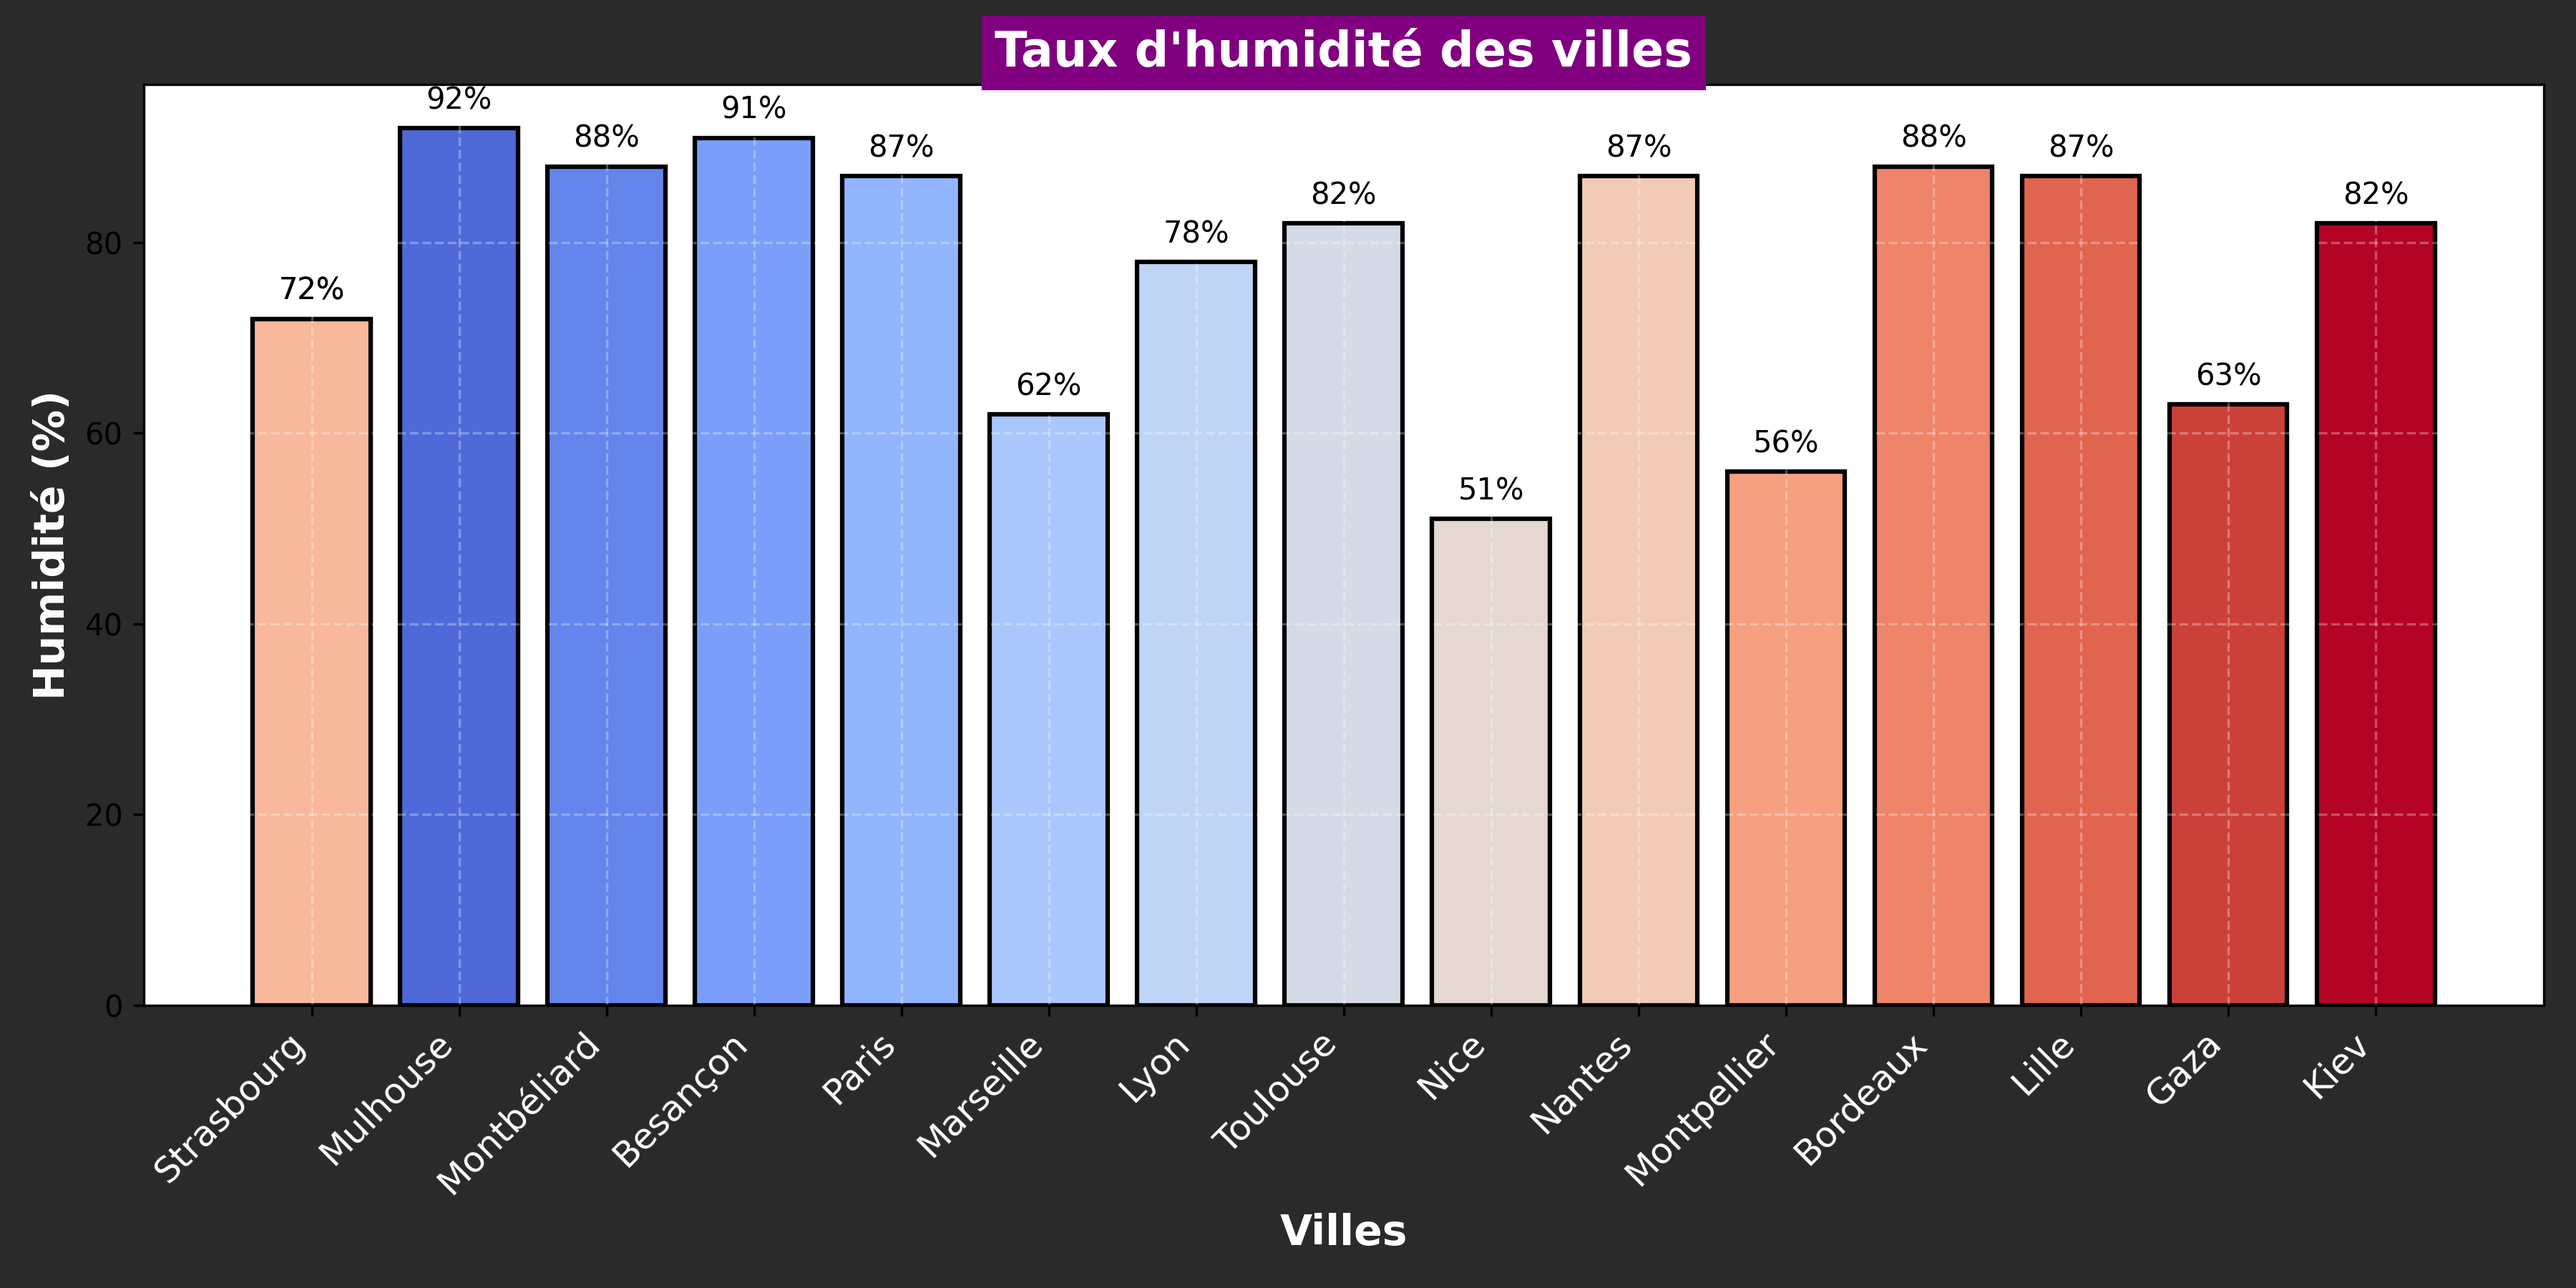
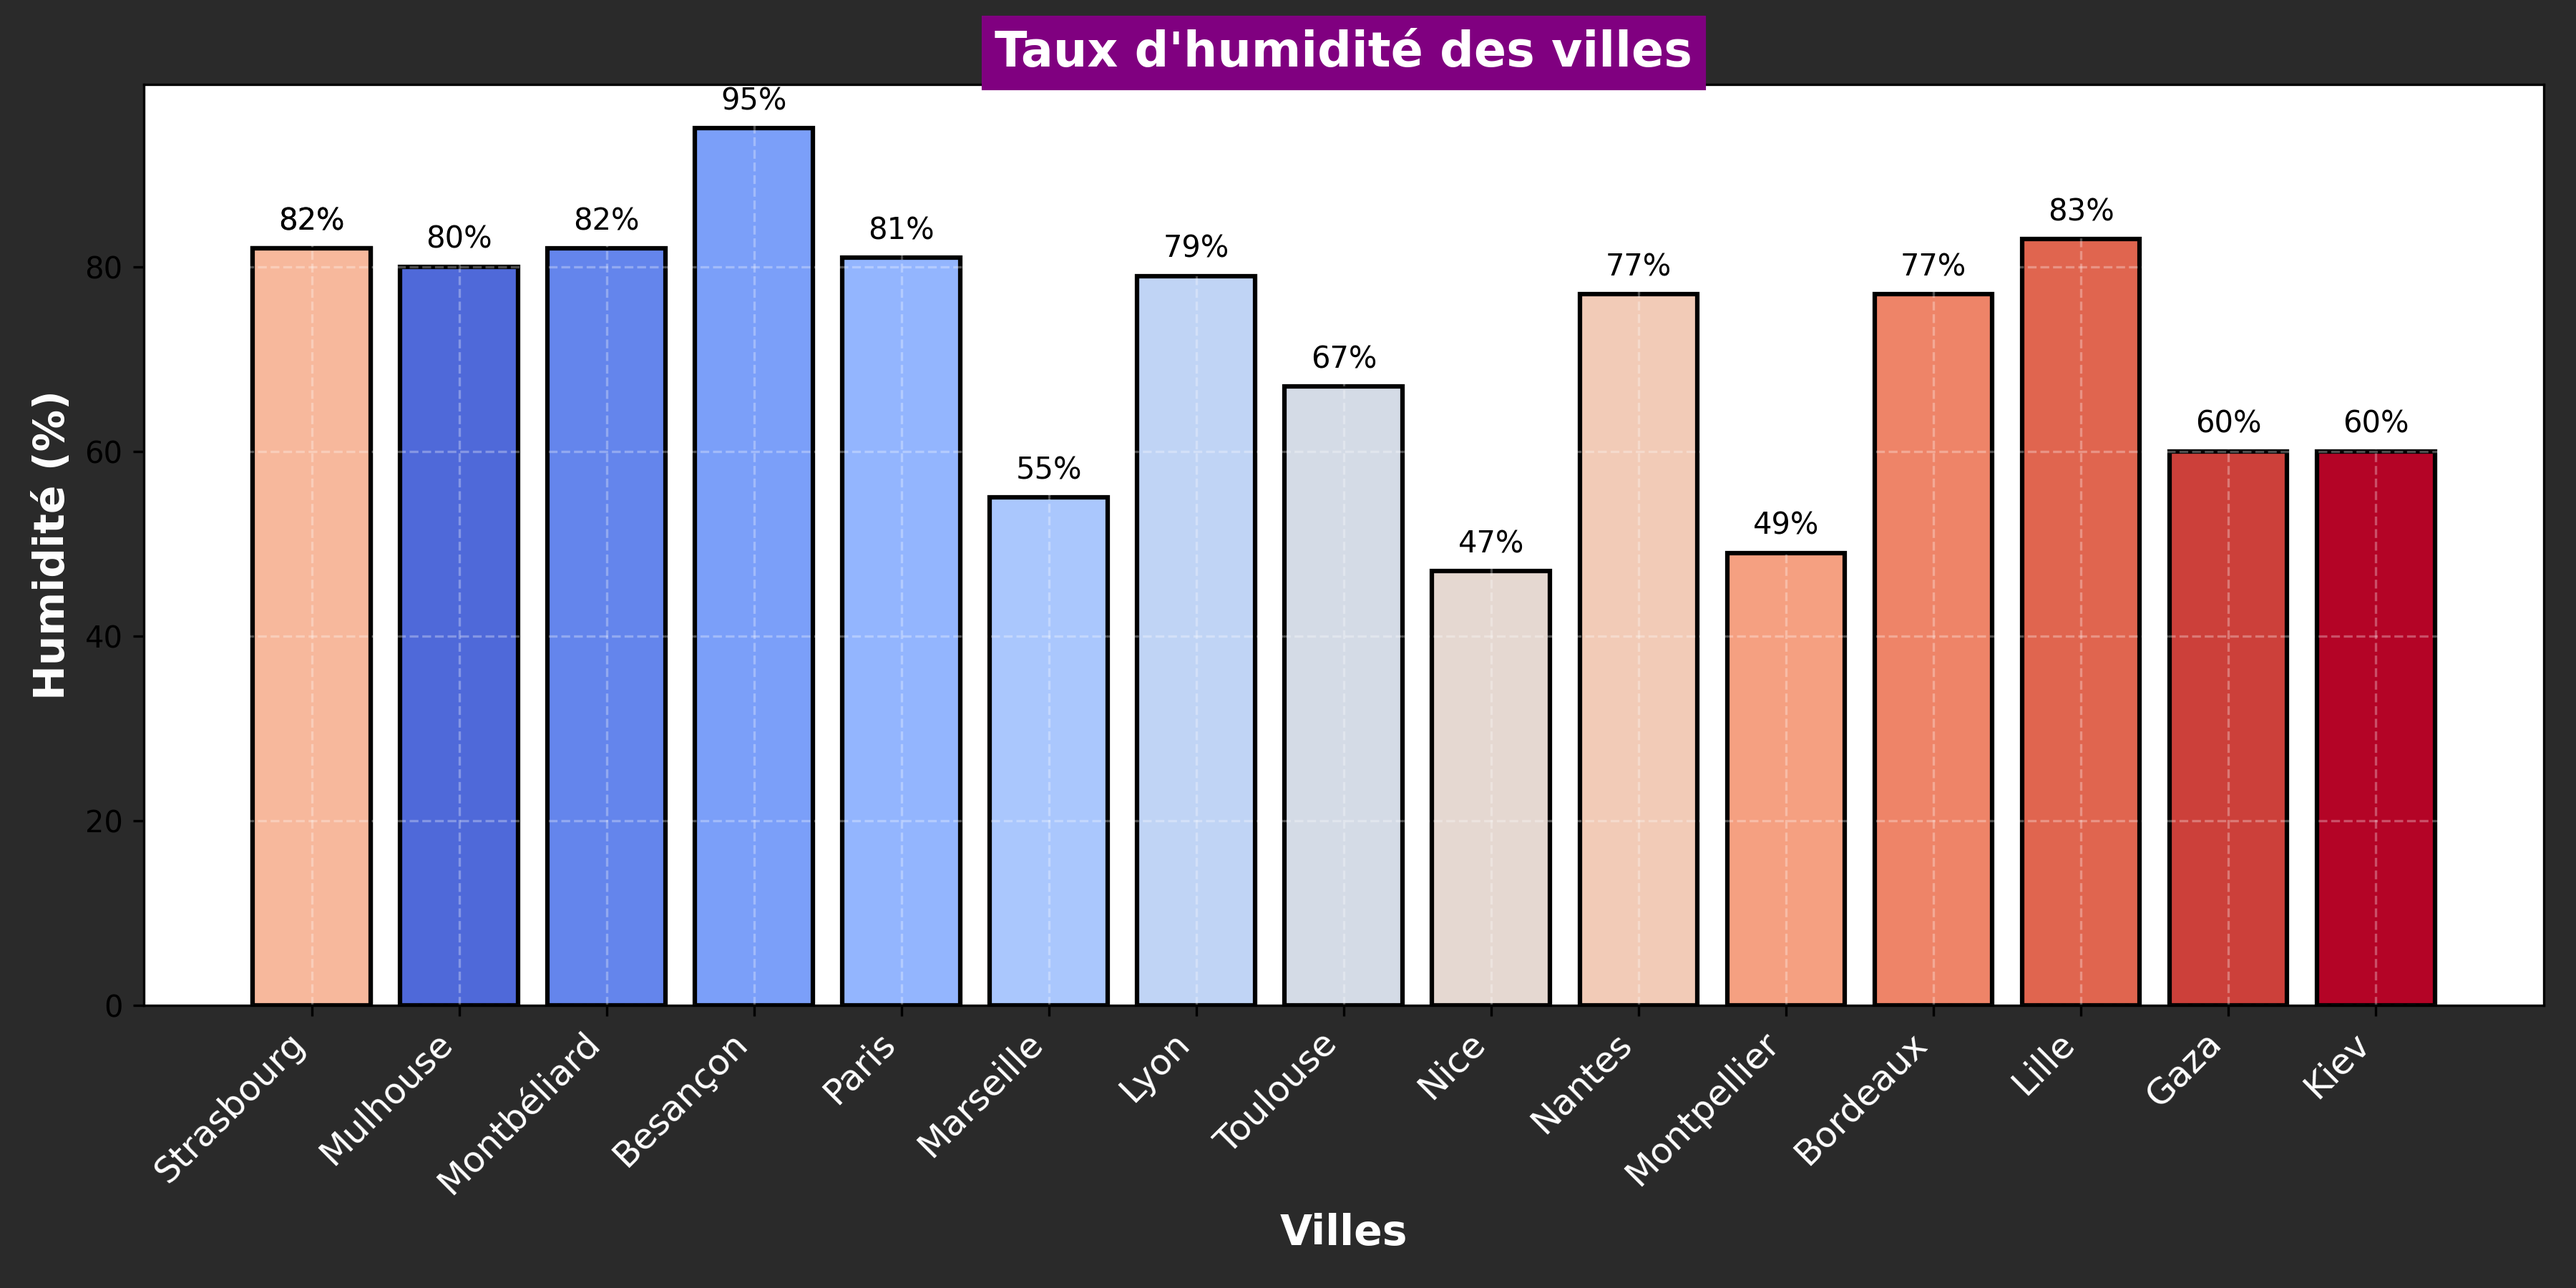
Mise à jour de la météo et ajout du graphique d'humidité

diff --git a/README.md b/README.md
@@ -24,103 +24,103 @@ Ce repo contient plusieurs workflows GitHub Actions :
 ## Météo actuelle :
 ## Météo des grandes villes + Gaza et Kiev 🌍
 
-🕒 Mise à jour : 08/07/2025 08:19:18
+🕒 Mise à jour : 09/07/2025 08:19:12
 
-### 🌍 Strasbourg 🌧
-**Conditions :** légère pluie
-**Température :** 14.97°C
-**Humidité :** 72%
-**Vent :** 2.06 m/s
+### 🌍 Strasbourg ☀
+**Conditions :** ciel dégagé
+**Température :** 14.98°C
+**Humidité :** 82%
+**Vent :** 1.54 m/s
 
-### 🌍 Mulhouse 🌧
-**Conditions :** légère pluie
-**Température :** 13.1°C
-**Humidité :** 92%
-**Vent :** 4.12 m/s
+### 🌍 Mulhouse ☀
+**Conditions :** ciel dégagé
+**Température :** 13.19°C
+**Humidité :** 80%
+**Vent :** 1.03 m/s
 
-### 🌍 Montbéliard 🌧
-**Conditions :** légère pluie
-**Température :** 12.77°C
-**Humidité :** 88%
-**Vent :** 3.89 m/s
+### 🌍 Montbéliard 🌥
+**Conditions :** peu nuageux
+**Température :** 13.88°C
+**Humidité :** 82%
+**Vent :** 0.93 m/s
 
-### 🌍 Besançon 🌧
-**Conditions :** légère pluie
-**Température :** 11.29°C
-**Humidité :** 91%
-**Vent :** 1.96 m/s
+### 🌍 Besançon 🌥
+**Conditions :** peu nuageux
+**Température :** 10.18°C
+**Humidité :** 95%
+**Vent :** 0.72 m/s
 
-### 🌍 Paris 🌥
-**Conditions :** nuageux
-**Température :** 14.73°C
-**Humidité :** 87%
-**Vent :** 5.66 m/s
+### 🌍 Paris ☀
+**Conditions :** ciel dégagé
+**Température :** 14.32°C
+**Humidité :** 81%
+**Vent :** 1.03 m/s
 
 ### 🌍 Marseille ☀
 **Conditions :** ciel dégagé
-**Température :** 17.44°C
-**Humidité :** 62%
-**Vent :** 6.26 m/s
+**Température :** 15.1°C
+**Humidité :** 55%
+**Vent :** 3.29 m/s
 
-### 🌍 Lyon 🌥
-**Conditions :** couvert
-**Température :** 13.56°C
-**Humidité :** 78%
-**Vent :** 1.58 m/s
-
-### 🌍 Toulouse ☀
+### 🌍 Lyon ☀
 **Conditions :** ciel dégagé
+**Température :** 11.6°C
+**Humidité :** 79%
+**Vent :** 1.14 m/s
+
+### 🌍 Toulouse 🌥
+**Conditions :** peu nuageux
 **Température :** 15.99°C
-**Humidité :** 82%
-**Vent :** 5.14 m/s
+**Humidité :** 67%
+**Vent :** 1.54 m/s
 
 ### 🌍 Nice ☀
 **Conditions :** ciel dégagé
-**Température :** 15.83°C
-**Humidité :** 51%
-**Vent :** 1.32 m/s
+**Température :** 15.28°C
+**Humidité :** 47%
+**Vent :** 0.83 m/s
 
 ### 🌍 Nantes ☀
 **Conditions :** ciel dégagé
-**Température :** 11.96°C
-**Humidité :** 87%
-**Vent :** 1.54 m/s
+**Température :** 15.96°C
+**Humidité :** 77%
+**Vent :** 1.03 m/s
 
-### 🌍 Strasbourg 🌧
-**Conditions :** légère pluie
-**Température :** 14.97°C
-**Humidité :** 72%
-**Vent :** 2.06 m/s
+### 🌍 Strasbourg ☀
+**Conditions :** ciel dégagé
+**Température :** 14.98°C
+**Humidité :** 82%
+**Vent :** 1.54 m/s
 
 ### 🌍 Montpellier ☀
 **Conditions :** ciel dégagé
-**Température :** 19.72°C
-**Humidité :** 56%
-**Vent :** 6.69 m/s
+**Température :** 19.71°C
+**Humidité :** 49%
+**Vent :** 3.09 m/s
 
 ### 🌍 Bordeaux ☀
 **Conditions :** ciel dégagé
-**Température :** 15.15°C
-**Humidité :** 88%
-**Vent :** 1.03 m/s
+**Température :** 17.15°C
+**Humidité :** 77%
+**Vent :** 0 m/s
 
-### 🌍 Lille 🌥
-**Conditions :** nuageux
-**Température :** 13.3°C
-**Humidité :** 87%
-**Vent :** 3.6 m/s
+### 🌍 Lille ☀
+**Conditions :** ciel dégagé
+**Température :** 14.83°C
+**Humidité :** 83%
+**Vent :** 2.57 m/s
 
 ### 🌍 Gaza ☀
 **Conditions :** ciel dégagé
-**Température :** 28.86°C
-**Humidité :** 63%
-**Vent :** 3.47 m/s
+**Température :** 28.56°C
+**Humidité :** 60%
+**Vent :** 2.08 m/s
 
 ### 🌍 Kiev 🌥
-**Conditions :** couvert
-**Température :** 23.12°C
-**Humidité :** 82%
-**Vent :** 5.16 m/s
+**Conditions :** partiellement nuageux
+**Température :** 27.62°C
+**Humidité :** 60%
+**Vent :** 0.45 m/s
 
 <p align='center'><img src='https://raw.githubusercontent.com/khoa083/khoa/main/Khoa_ne/img/Rainbow.gif' width='100%' style='border-radius: 5px; border: 3px solid #39FF14; box-shadow: 0 0 10px #39FF14, 0 0 20px #39FF14;' /></p>
 
